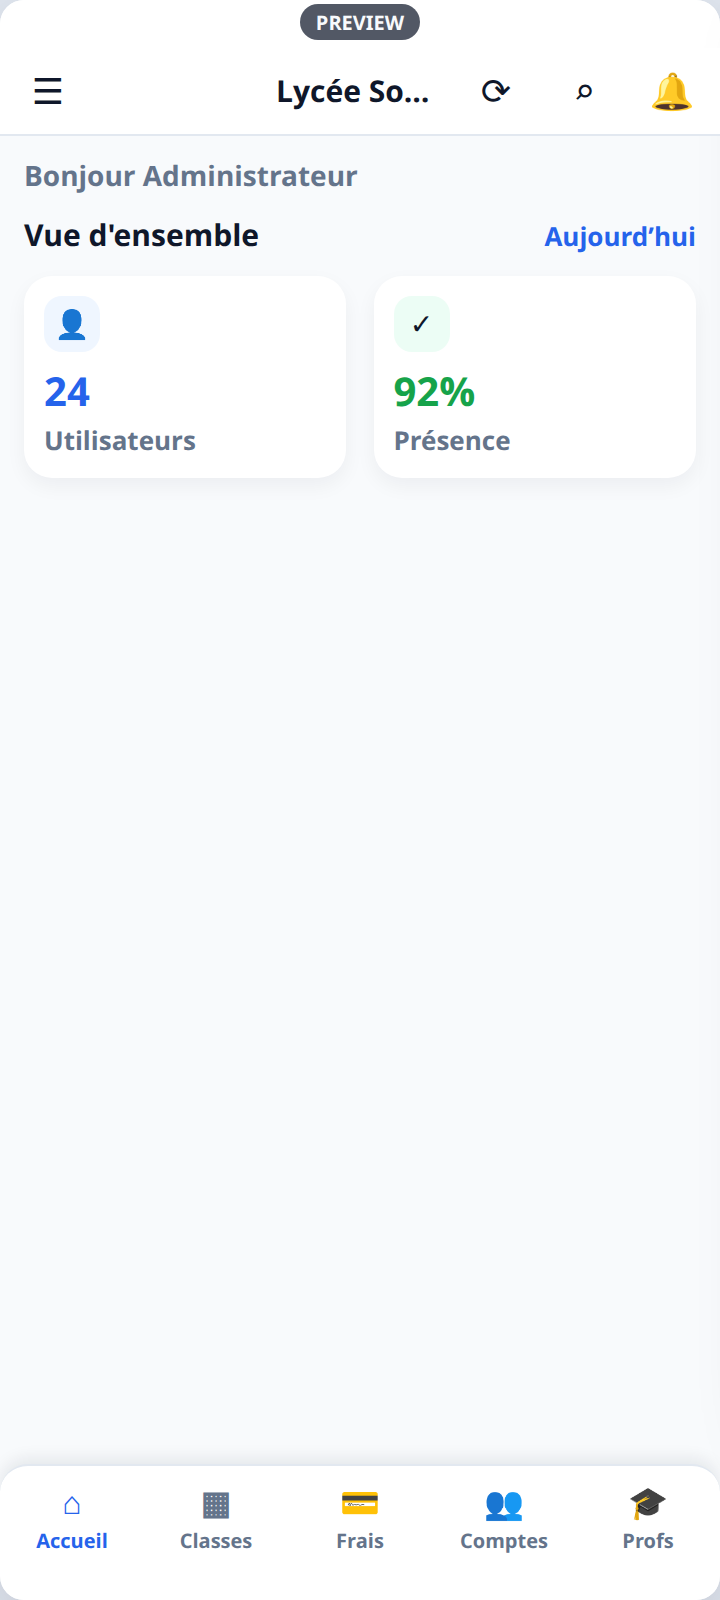
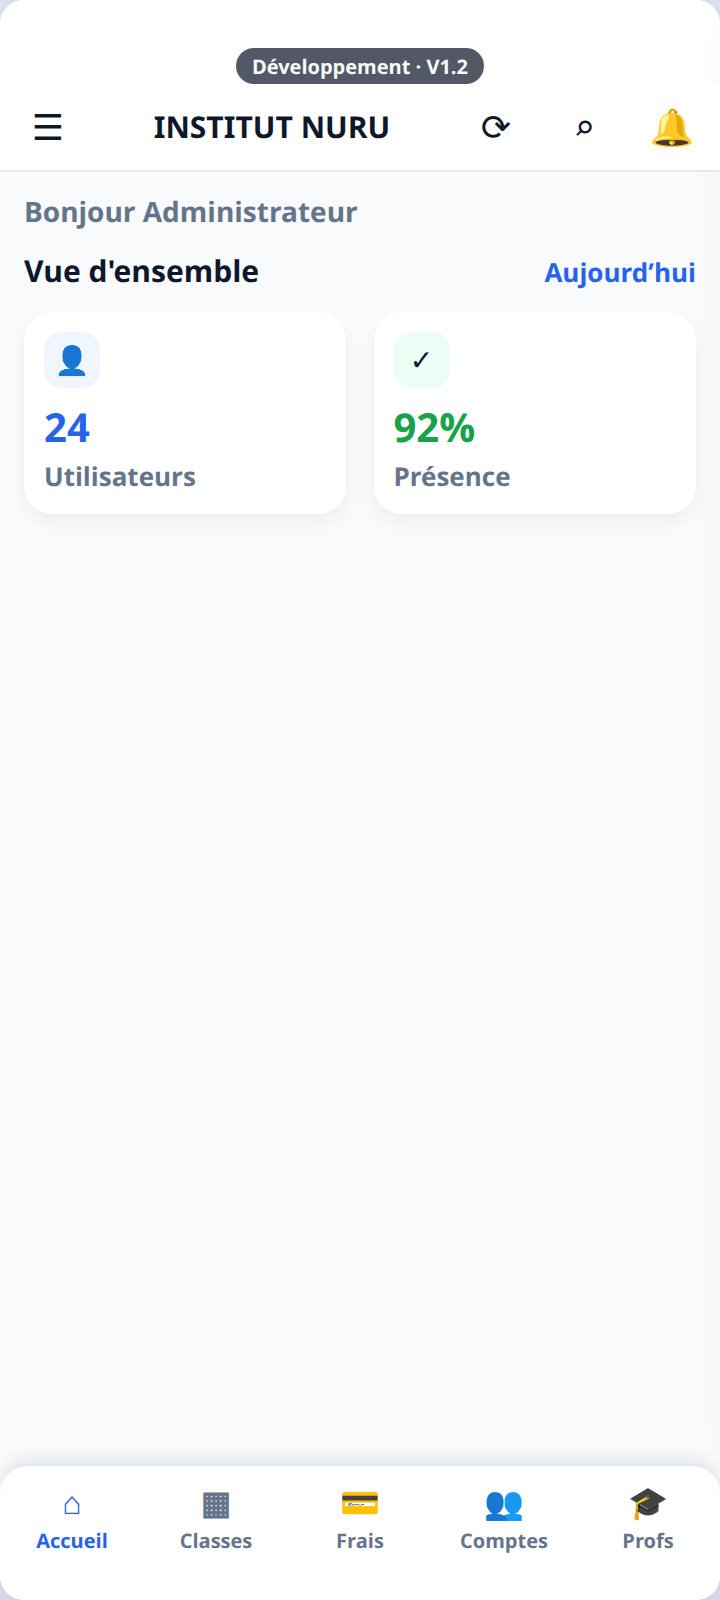
fix(mobile): V1.2 — authentifier le bundle et sortir le badge du système
La preuve device précédente n’exécutait pas ce HEAD (carte établissement,
hero bleu, labels Utilisate…/Enseigna…, nav sombre). Le badge affiche
désormais « Développement · V1.2 » sous la status bar. Header : burger 44 /
nom lisible / actions 132, sans sous-titre ville. Labels bottom imposés
courts (Comptes/Profs/Frais) même si le tabName est long.

diff --git a/Mobile/src/components/MobileAppHeader.tsx b/Mobile/src/components/MobileAppHeader.tsx
@@ -5,7 +5,8 @@ import { Ionicons } from "@expo/vector-icons";
 import { useAuth } from "../context/AuthContext";
 import { canReadRoute, canReadView } from "../domain/security/permissions";
 import { MIN_TOUCH_TARGET_DP } from "../lib/mobileUsability";
-import { COMPACT_HEADER_ROW_DP, HEADER_ACTIONS_SLOT_DP } from "../lib/mobileUxV1Layout";
+import { COMPACT_HEADER_ROW_DP, HEADER_ACTIONS_SLOT_DP, HEADER_BADGE_BAND_DP, HEADER_MENU_SLOT_DP } from "../lib/mobileUxV1Layout";
+import { shouldShowEnvironmentBadge } from "../config/env";
 import RoleNavigationDrawer from "./RoleNavigationDrawer";
 
 export default function MobileAppHeader({ navigation }: { navigation: any }) {
@@ -42,8 +43,9 @@ export default function MobileAppHeader({ navigation }: { navigation: any }) {
   return (
     <>
       <SafeAreaView edges={["top"]} style={styles.safe} testID="mobile-app-header">
+        {shouldShowEnvironmentBadge() ? <View style={styles.badgeBand} /> : null}
         <View style={styles.row}>
-          <View style={styles.sideSlot}>
+          <View style={styles.menuSlot}>
             <TouchableOpacity
               style={styles.menuButton}
               onPress={() => setDrawerOpen(true)}
@@ -66,7 +68,7 @@ export default function MobileAppHeader({ navigation }: { navigation: any }) {
             </Text>
           </View>
 
-          <View style={[styles.sideSlot, styles.actionsSlot]}>
+          <View style={styles.actionsSlot}>
             {syncRoute ? (
               <HeaderAction
                 icon="sync-outline"
@@ -142,8 +144,11 @@ const styles = StyleSheet.create({
     alignItems: "center",
     paddingHorizontal: 2,
   },
-  sideSlot: {
-    width: HEADER_ACTIONS_SLOT_DP,
+  badgeBand: {
+    height: HEADER_BADGE_BAND_DP,
+  },
+  menuSlot: {
+    width: HEADER_MENU_SLOT_DP,
     minHeight: MIN_TOUCH_TARGET_DP,
     flexDirection: "row",
     alignItems: "center",
@@ -169,6 +174,10 @@ const styles = StyleSheet.create({
     width: "100%",
   },
   actionsSlot: {
+    width: HEADER_ACTIONS_SLOT_DP,
+    minHeight: MIN_TOUCH_TARGET_DP,
+    flexDirection: "row",
+    alignItems: "center",
     justifyContent: "flex-end",
   },
   actionButton: {

diff --git a/docs/mobile/evidence/ux-v1.2-home.html b/docs/mobile/evidence/ux-v1.2-home.html
@@ -43,10 +43,13 @@
     .status {
       height: var(--status);
       background: #FFFFFF;
+    }
+    .badge-band {
+      height: 18px;
+      background: #FFFFFF;
       display: flex;
-      align-items: flex-start;
+      align-items: center;
       justify-content: center;
-      padding-top: 2px;
     }
     .badge {
       background: rgba(15, 23, 42, 0.72);
@@ -72,7 +75,8 @@
       display: flex;
       align-items: center;
     }
-    .slot.right { justify-content: flex-end; }
+    .slot.menu { width: 44px; }
+    .slot.right { width: 132px; justify-content: flex-end; }
     .hit {
       width: 44px; height: 44px;
       display: flex; align-items: center; justify-content: center;
@@ -159,9 +163,10 @@
 <body>
   <h1>UX/UI Mobile V1.2 — composition Accueil school_admin</h1>
   <p class="note">
-    Maquette CSS calée sur les constantes StyleSheet V1.2 (header 44, slots 132, welcome ≤40,
-    KPI min 92, tab 52 + inset). Ce n’est <strong>pas</strong> une capture Expo Go / device :
-    le GO visuel reste une photo appareil réelle. Overlays Expo <code>↻ / ...</code> volontairement absents.
+    Maquette CSS calée sur les constantes StyleSheet V1.2 (header 44 + bande badge 18,
+    welcome ≤40, KPI min 92, tab 52 + inset). Le badge <strong>Développement · V1.2</strong>
+    authentifie le bundle : une capture device sans <code>V1.2</code> n’est pas ce HEAD.
+    Ce n’est <strong>pas</strong> une capture Expo Go / device. Overlays Expo <code>↻ / ...</code> absents.
   </p>
   <div class="gallery">
     <div>
@@ -190,10 +195,11 @@
     </div>
   </div>
   <template id="shell">
-    <div class="status"><span class="badge">PREVIEW</span></div>
+    <div class="status"></div>
+    <div class="badge-band"><span class="badge">Développement · V1.2</span></div>
     <header class="header">
-      <div class="slot"><div class="hit">☰</div></div>
-      <div class="school">Lycée Somafrik</div>
+      <div class="slot menu"><div class="hit">☰</div></div>
+      <div class="school">INSTITUT NURU</div>
       <div class="slot right">
         <div class="hit">⟳</div>
         <div class="hit">⌕</div>

diff --git a/Mobile/scripts/verify-mobile-ux-v1.js b/Mobile/scripts/verify-mobile-ux-v1.js
@@ -35,6 +35,9 @@ function main() {
   assert.match(layout, /SCHOOL_ADMIN_BOTTOM_LABELS/);
   assert.match(layout, /MAX_TAB_LABEL_CHARS = 8/);
   assert.match(layout, /HEADER_ACTIONS_SLOT_DP/);
+  assert.match(layout, /HEADER_MENU_SLOT_DP/);
+  assert.match(layout, /HEADER_BADGE_BAND_DP/);
+  assert.match(layout, /shortBottomTabLabel/);
   assert.match(layout, /COMPACT_WELCOME_MAX_DP = 40/);
   assert.match(layout, /KPI_ROW_MIN_DP = 92/);
   assert.match(layout, /TAB_BAR_CONTENT_HEIGHT = 52/);
@@ -55,6 +58,7 @@ function main() {
   assert.match(tabs, /headerStatusBarHeight:\s*0/);
   assert.match(tabs, /CompactTabLabel/);
   assert.match(tabs, /TAB_LABEL_FONT_SIZE/);
+  assert.match(tabs, /shortBottomTabLabel/);
   assert.match(tabs, /size=\{20\}/);
   assert.doesNotMatch(tabs, /adjustsFontSizeToFit/);
   assert.doesNotMatch(tabs, /minimumFontScale/);
@@ -73,7 +77,10 @@ function main() {
   assert.match(header, /SafeAreaView/);
   assert.match(header, /edges=\{\["top"\]\}/);
   assert.match(header, /HEADER_ACTIONS_SLOT_DP/);
-  assert.match(header, /styles\.sideSlot/);
+  assert.match(header, /HEADER_MENU_SLOT_DP/);
+  assert.match(header, /badgeBand/);
+  assert.match(header, /styles\.menuSlot/);
+  assert.doesNotMatch(header, /schoolCity|roleLabel|Uvira/);
   assert.match(header, /mobile-header-menu/);
   assert.match(header, /mobile-header-school-name/);
   assert.match(header, /mobile-header-sync/);
@@ -85,6 +92,7 @@ function main() {
 
   assert.doesNotMatch(home, /CommunicationHeaderIcons/);
   assert.match(home, /welcomeQuiet/);
+  assert.match(home, /home-ux-v1-2/);
   assert.match(home, /maxHeight:\s*COMPACT_WELCOME_MAX_DP|maxHeight:\s*40/);
   assert.match(home, /KPI_ROW_MIN_DP/);
   assert.match(home, /home-admin-dashboard|HOME_TEST_IDS\.adminDashboard/);
@@ -99,7 +107,8 @@ function main() {
   );
 
   assert.match(badge, /testID="environment-badge"/);
-  assert.match(badge, /zIndex:\s*8/);
+  assert.match(badge, /UX_V1_SPEC_VERSION/);
+  assert.match(badge, /insets\.top \+ 2/);
 
   assert.doesNotMatch(navSpec, /tabMenu/);
   assert.doesNotMatch(navSpec, /tab-menu/);

diff --git a/Mobile/src/lib/mobileUxV1Layout.ts b/Mobile/src/lib/mobileUxV1Layout.ts
@@ -12,7 +12,9 @@ export const UX_V1_FONT_SCALES = [1, 1.3] as const;
 export const UX_V1_VALIDATION_VIEWPORT = { width: 360, height: 800 } as const;
 
 export const COMPACT_HEADER_ROW_DP = MIN_TOUCH_TARGET_DP;
+export const HEADER_MENU_SLOT_DP = MIN_TOUCH_TARGET_DP;
 export const HEADER_ACTIONS_SLOT_DP = MIN_TOUCH_TARGET_DP * 3;
+export const HEADER_BADGE_BAND_DP = 18;
 export const COMPACT_WELCOME_MAX_DP = 40;
 export const HOME_SCROLL_TOP_DP = 4;
 export const OVERVIEW_SECTION_HEADER_DP = 24;
@@ -31,6 +33,22 @@ export const MAX_FONT_SCALE = 1.3;
 export const FLOATING_TAB_BAR_HEIGHT_V11 = TAB_BAR_CONTENT_HEIGHT;
 
 export const SCHOOL_ADMIN_BOTTOM_LABELS = ["Accueil", "Classes", "Frais", "Comptes", "Profs"] as const;
+
+/** Libellés courts imposés — jamais le tabName long (`Utilisateurs`, `Enseignants`). */
+export const BOTTOM_TAB_SHORT_LABELS: Record<string, string> = {
+  Accueil: "Accueil",
+  Classes: "Classes",
+  Paiements: "Frais",
+  Payments: "Frais",
+  Utilisateurs: "Comptes",
+  Users: "Comptes",
+  Enseignants: "Profs",
+  Teachers: "Profs",
+};
+
+export function shortBottomTabLabel(tabName: string, fallback?: string): string {
+  return BOTTOM_TAB_SHORT_LABELS[tabName] ?? fallback ?? tabName;
+}
 
 export function tabBarItemWidth(viewportWidth: number, tabCount = MAX_BOTTOM_TABS): number {
   const chrome = TAB_BAR_SIDE_INSET_DP * 2 + TAB_BAR_INNER_PADDING_DP * 2;
@@ -75,7 +93,7 @@ export function measureHomeShell(
   fontScale = 1,
 ): HomeShellBoxes {
   const scale = Math.min(Math.max(fontScale, 1), MAX_FONT_SCALE);
-  const headerBottom = insets.top + COMPACT_HEADER_ROW_DP;
+  const headerBottom = insets.top + HEADER_BADGE_BAND_DP + COMPACT_HEADER_ROW_DP;
   const welcomeHeight = Math.min(COMPACT_WELCOME_MAX_DP, Math.ceil(32 * Math.min(scale, 1.15)));
   const welcomeBottom = headerBottom + HOME_SCROLL_TOP_DP + welcomeHeight;
   const overviewHeight = Math.ceil(OVERVIEW_SECTION_HEADER_DP * Math.min(scale, 1.15));

diff --git a/Mobile/src/navigation/BottomTabsNavigator.tsx b/Mobile/src/navigation/BottomTabsNavigator.tsx
@@ -14,7 +14,7 @@ import { useFloatingTabBarLayout } from "../lib/screenLayout";
 import { TAB_TEST_IDS } from "../lib/loginScreenSpec";
 import { tabTestIdForTabName } from "../lib/mobileNavigationSpec";
 import { MIN_TOUCH_TARGET_DP } from "../lib/mobileUsability";
-import { TAB_BAR_CONTENT_HEIGHT, TAB_LABEL_FONT_SIZE } from "../lib/mobileUxV1Layout";
+import { TAB_BAR_CONTENT_HEIGHT, TAB_LABEL_FONT_SIZE, shortBottomTabLabel } from "../lib/mobileUxV1Layout";
 import MobileAppHeader from "../components/MobileAppHeader";
 
 const Tab = createBottomTabNavigator();
@@ -121,6 +121,7 @@ export default function BottomTabsNavigator() {
         name="Accueil"
         component={HomeScreen}
         options={{
+          tabBarLabel: "Accueil",
           tabBarButtonTestID: TAB_TEST_IDS.accueil,
           tabBarAccessibilityLabel: "Accueil",
         }}
@@ -135,10 +136,11 @@ export default function BottomTabsNavigator() {
             options={
               tabTestId
                 ? {
+                    tabBarLabel: tab.label,
                     tabBarButtonTestID: tabTestId,
                     tabBarAccessibilityLabel: tab.label,
                   }
-                : { tabBarAccessibilityLabel: tab.label }
+                : { tabBarLabel: tab.label, tabBarAccessibilityLabel: tab.label }
             }
           />
         );
@@ -172,5 +174,5 @@ function getTabLabel(
 ) {
   if (tabName === "Accueil") return "Accueil";
   const definition = findTabDefinition(tabName, visibleTabs, overflowTabs, hiddenTabs);
-  return definition?.label ?? tabName;
+  return shortBottomTabLabel(tabName, definition?.label);
 }

diff --git a/Mobile/src/screens/HomeScreen.tsx b/Mobile/src/screens/HomeScreen.tsx
@@ -581,17 +581,19 @@ export default function HomeScreen({ navigation }: any) {
       >
         {isPlatformAdmin && <SchoolSelector />}
 
-        <TouchableOpacity
-          activeOpacity={0.85}
-          style={styles.welcomeQuiet}
-          onPress={() => canOpenSchoolManagement && navigation.navigate("SchoolManagement")}
-          testID={isSchoolAdmin ? HOME_TEST_IDS.adminDashboard : undefined}
-        >
-          <Text style={styles.welcomeQuietText} numberOfLines={1} maxFontSizeMultiplier={1.3}>
-            {welcomeGreeting}
-            {welcomeName ? ` ${welcomeName}` : ""}
-          </Text>
-        </TouchableOpacity>
+        <View testID={isSchoolAdmin ? "home-ux-v1-2" : undefined} collapsable={false}>
+          <TouchableOpacity
+            activeOpacity={0.85}
+            style={styles.welcomeQuiet}
+            onPress={() => canOpenSchoolManagement && navigation.navigate("SchoolManagement")}
+            testID={isSchoolAdmin ? HOME_TEST_IDS.adminDashboard : undefined}
+          >
+            <Text style={styles.welcomeQuietText} numberOfLines={1} maxFontSizeMultiplier={1.3}>
+              {welcomeGreeting}
+              {welcomeName ? ` ${welcomeName}` : ""}
+            </Text>
+          </TouchableOpacity>
+        </View>
 
         <View style={styles.sectionHeader}>
           <Text style={styles.sectionTitle} testID={NAVIGATION_TEST_IDS.homeOverviewTitle}>

diff --git a/Mobile/src/components/EnvironmentBadge.tsx b/Mobile/src/components/EnvironmentBadge.tsx
@@ -2,6 +2,7 @@ import { StyleSheet, Text, View } from "react-native";
 import { useSafeAreaInsets } from "react-native-safe-area-context";
 
 import { getEnvironmentBadgeLabel, shouldShowEnvironmentBadge } from "../config/env";
+import { UX_V1_SPEC_VERSION } from "../lib/mobileUxV1Layout";
 
 /** Marqueur d'environnement visible, non intrusif — jamais en production. */
 export default function EnvironmentBadge() {
@@ -13,15 +14,16 @@ export default function EnvironmentBadge() {
 
 function EnvironmentBadgeInner({ label }: { label: string }) {
   const insets = useSafeAreaInsets();
+  const display = `${label} · V${UX_V1_SPEC_VERSION}`;
   return (
     <View
       pointerEvents="none"
-      style={[styles.wrap, { top: Math.max(insets.top > 12 ? 2 : 0, 0) }]}
+      style={[styles.wrap, { top: insets.top + 2 }]}
       testID="environment-badge"
       accessibilityRole="text"
-      accessibilityLabel={`Environnement ${label}`}
+      accessibilityLabel={`Environnement ${display}`}
     >
-      <Text style={styles.text}>{label}</Text>
+      <Text style={styles.text}>{display}</Text>
     </View>
   );
 }
@@ -32,8 +34,7 @@ const styles = StyleSheet.create({
     left: 0,
     right: 0,
     alignItems: "center",
-    zIndex: 8,
-    borderRadius: 999,
+    zIndex: 40,
   },
   text: {
     color: "#F8FAFC",

diff --git a/Mobile/src/lib/mobileUxV1Layout.test.ts b/Mobile/src/lib/mobileUxV1Layout.test.ts
@@ -4,6 +4,8 @@ import {
   COMPACT_HEADER_ROW_DP,
   COMPACT_WELCOME_MAX_DP,
   HEADER_ACTIONS_SLOT_DP,
+  HEADER_BADGE_BAND_DP,
+  HEADER_MENU_SLOT_DP,
   HOME_SCROLL_TOP_DP,
   KPI_ROW_MIN_DP,
   MAX_BOTTOM_TABS,
@@ -21,6 +23,7 @@ import {
   homeAboveFoldFitsAllViewports,
   measureHomeShell,
   schoolAdminLabelsFitAllViewports,
+  shortBottomTabLabel,
   tabLabelFitsViewport,
 } from "./mobileUxV1Layout";
 
@@ -29,6 +32,11 @@ assert.equal(MAX_BOTTOM_TABS, 5);
 assert.equal(MAX_ROLE_TABS, 4);
 assert.equal(COMPACT_HEADER_ROW_DP, 44);
 assert.equal(HEADER_ACTIONS_SLOT_DP, MIN_TOUCH_TARGET_DP * 3);
+assert.equal(HEADER_MENU_SLOT_DP, MIN_TOUCH_TARGET_DP);
+assert.equal(HEADER_BADGE_BAND_DP, 18);
+assert.equal(shortBottomTabLabel("Utilisateurs"), "Comptes");
+assert.equal(shortBottomTabLabel("Enseignants"), "Profs");
+assert.equal(shortBottomTabLabel("Paiements"), "Frais");
 assert.equal(COMPACT_WELCOME_MAX_DP, 40);
 assert.equal(HOME_SCROLL_TOP_DP, 4);
 assert.equal(KPI_ROW_MIN_DP, 92);

diff --git a/Mobile/src/navigation/roleTabPreferences.ts b/Mobile/src/navigation/roleTabPreferences.ts
@@ -12,6 +12,7 @@ import StudentPaymentsScreen from "../screens/StudentPaymentsScreen";
 import TeacherAttendanceScreen from "../screens/TeacherAttendanceScreen";
 import TeacherGradesScreen from "../screens/TeacherGradesScreen";
 import { canReadRoute } from "../domain/security/permissions";
+import { shortBottomTabLabel } from "../lib/mobileUxV1Layout";
 
 /** Nombre max d'onglets métier visibles (Accueil occupe le cinquième emplacement). */
 export const MAX_FLOATING_ROLE_TABS = 4;
@@ -276,5 +277,5 @@ export function buildOverflowQuickActionItems(session: any): QuickActionItem[] {
 }
 
 export function getTabBarLabel(tabName: string, definition?: RoleTabDefinition) {
-  return definition?.label ?? tabName;
+  return shortBottomTabLabel(tabName, definition?.label);
 }

diff --git a/docs/mobile/UX_UI_MOBILE_V1.md b/docs/mobile/UX_UI_MOBILE_V1.md
@@ -16,6 +16,8 @@ Le GO visuel n’est **pas** un contrat géométrique dans les tests. Il est une
 
 Viewport de validation : **~360×800 dp**, plus **320 / 360 / 390 / 412 dp** et **fontScale 1.0 / 1.3**.
 
+**Preuve bundle :** la capture device doit afficher le badge `Développement · V1.2` (ou `Preview QA · V1.2`) **sous** la barre système, dans la bande header. Une capture qui n’affiche que `Développement` sans `V1.2`, ou qui montre encore la carte établissement / un hero bleu / `Utilisate…` / `Enseigna…` / une bottom nav sombre flottante, **n’exécute pas ce HEAD** — recharger Expo Go depuis `feat/mobile-ux-ui-v1` avec cache vidé (`expo start --clear`, Reload).
+
 Interdits V1.2 :
 - grosse carte établissement redondante avec le header ;
 - duplication de `CommunicationHeaderIcons` sur Home ;
@@ -69,7 +71,8 @@ Contraintes :
 - le nom établissement est prioritaire, une ligne, **sans** ligne secondaire ville/rôle ;
 - maximum 3 actions à droite ;
 - les actions non autorisées par RBAC ne sont pas affichées ;
-- le badge d’environnement reste dans la bande status-bar (`zIndex` inférieur au header).
+- le badge d’environnement reste **sous** la barre système (bande `HEADER_BADGE_BAND_DP` dans le header), jamais dans l’horloge / réseau / batterie ;
+- le badge non-production affiche la version de spec (`Développement · V1.2`) pour authentifier le bundle.
 
 ### Menu latéral gauche
 
